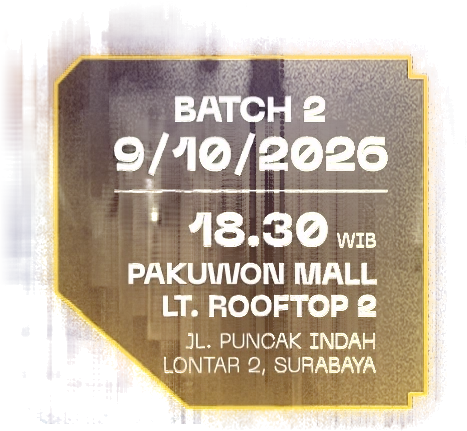
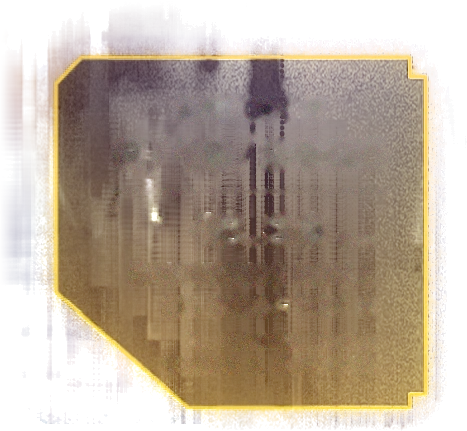
update

diff --git a/gyro.html b/gyro.html
@@ -65,15 +65,74 @@
             50% { opacity: var(--o); transform: scale(1); }
         }
 
-        #tilt {
-            position: fixed; left: 50%; bottom: calc(18px + env(safe-area-inset-bottom));
-            transform: translateX(-50%); z-index: 5;
-            font: 700 11px/1 ui-monospace, Menlo, monospace; letter-spacing: .15em; color: #fff;
-            background: rgba(25, 12, 70, .85); border: 2px solid #e9b24a; border-radius: 0;
-            padding: 10px 14px; box-shadow: 0 0 0 2px rgba(25,12,70,.85), 0 0 18px rgba(233,178,74,.45);
-            cursor: pointer;
+        /* tap-to-enter start screen; the tap is what lets iOS ask for motion permission */
+        #loader {
+            position: fixed; inset: 0; z-index: 50; width: 100%; margin: 0; padding: 0; border: 0;
+            display: flex; flex-direction: column; align-items: center; justify-content: center; gap: 16px;
+            background: #000; color: inherit; cursor: pointer; transition: opacity .5s;
+            -webkit-tap-highlight-color: transparent;
         }
-        #tilt[hidden] { display: none; }
+        #loader:disabled { cursor: default; }
+        #loader.gone { opacity: 0; pointer-events: none; }
+        #loader span { display: block; }
+        #loader-msg {
+            color: #eab308; font: 12px/16px ui-monospace, SFMono-Regular, Menlo, monospace; letter-spacing: .1em;
+            animation: pulse 2s cubic-bezier(.4, 0, .6, 1) infinite;
+        }
+        @keyframes pulse { 50% { opacity: .5; } }
+
+        /* Pixel-art treasure chest loader (same as index.html) */
+        .pixel-chest {
+            position: relative;
+            width: 64px;
+            height: 64px;
+            image-rendering: pixelated;
+            image-rendering: crisp-edges;
+        }
+        .pixel-chest-lid,
+        .pixel-chest-body {
+            position: absolute;
+            left: 0;
+            width: 4px;
+            height: 4px;
+            background: transparent;
+            box-shadow:
+                /* LID (top arc, gold/brown) */
+                8px 4px 0 #b8860b, 12px 4px 0 #b8860b, 16px 4px 0 #b8860b, 20px 4px 0 #b8860b, 24px 4px 0 #b8860b, 28px 4px 0 #b8860b, 32px 4px 0 #b8860b, 36px 4px 0 #b8860b, 40px 4px 0 #b8860b, 44px 4px 0 #b8860b, 48px 4px 0 #b8860b,
+                4px 8px 0 #8b6508, 8px 8px 0 #ffd700, 12px 8px 0 #ffd700, 16px 8px 0 #ffd700, 20px 8px 0 #ffd700, 24px 8px 0 #ffd700, 28px 8px 0 #ffd700, 32px 8px 0 #ffd700, 36px 8px 0 #ffd700, 40px 8px 0 #ffd700, 44px 8px 0 #ffd700, 48px 8px 0 #ffd700, 52px 8px 0 #8b6508;
+        }
+        .pixel-chest-body {
+            top: 28px;
+            box-shadow:
+                /* BODY (wood with gold band) */
+                4px 0 0 #5a3a1a, 8px 0 0 #8b5a2b, 12px 0 0 #8b5a2b, 16px 0 0 #8b5a2b, 20px 0 0 #8b5a2b, 24px 0 0 #8b5a2b, 28px 0 0 #8b5a2b, 32px 0 0 #8b5a2b, 36px 0 0 #8b5a2b, 40px 0 0 #8b5a2b, 44px 0 0 #8b5a2b, 48px 0 0 #8b5a2b, 52px 0 0 #5a3a1a,
+                4px 4px 0 #5a3a1a, 8px 4px 0 #ffd700, 12px 4px 0 #ffd700, 16px 4px 0 #ffd700, 20px 4px 0 #ffd700, 24px 4px 0 #ffd700, 28px 4px 0 #ffd700, 32px 4px 0 #ffd700, 36px 4px 0 #ffd700, 40px 4px 0 #ffd700, 44px 4px 0 #ffd700, 48px 4px 0 #ffd700, 52px 4px 0 #5a3a1a,
+                4px 8px 0 #5a3a1a, 8px 8px 0 #8b5a2b, 48px 8px 0 #8b5a2b, 52px 8px 0 #5a3a1a,
+                4px 12px 0 #5a3a1a, 8px 12px 0 #8b5a2b, 48px 12px 0 #8b5a2b, 52px 12px 0 #5a3a1a;
+        }
+        .pixel-chest-lid {
+            top: 8px;
+            animation: lidBounce 1s steps(2) infinite alternate;
+        }
+        @keyframes lidBounce {
+            0% { top: 8px; }
+            100% { top: 0px; }
+        }
+        .pixel-sparkle {
+            position: absolute;
+            width: 4px;
+            height: 4px;
+            background: #fffacd;
+            box-shadow: 0 0 4px #fffacd;
+            opacity: 0;
+        }
+        .pixel-sparkle-1 { top: 0; left: 50%; animation: sparkle 1.2s ease-in-out infinite; }
+        .pixel-sparkle-2 { top: 4px; left: 25%; animation: sparkle 1.2s ease-in-out infinite 0.4s; }
+        .pixel-sparkle-3 { top: 4px; left: 75%; animation: sparkle 1.2s ease-in-out infinite 0.8s; }
+        @keyframes sparkle {
+            0%, 100% { opacity: 0; transform: scale(0.5); }
+            50% { opacity: 1; transform: scale(1); }
+        }
     </style>
 </head>
 <body>
@@ -81,10 +140,15 @@
         <div class="fg" id="fg">
             <img class="bgimg" id="bg" src="gyro/bg.webp" alt="">
             <div class="bob" id="bob">
-                <img id="top" src="gyro/top.webp" style="left:237px;top:140px" alt="The game is on. Are you ready?">
-                <img id="b1" src="gyro/b1.webp" style="left:63px;top:909px" alt="Batch 1: 2/10/2026, 18.30 WIB, Pakuwon City Mall 3 Lt. P8, Jl. Kejawan Putih Mutiara 17, Surabaya">
-                <img id="b2" src="gyro/b2.webp" style="left:575px;top:921px" alt="Batch 2: 9/10/2026, 18.30 WIB, Pakuwon Mall Lt. Rooftop 2, Jl. Puncak Indah Lontar 2, Surabaya">
-                <img id="reg" src="gyro/reg.webp" style="left:319px;top:1320px" alt="Open registration: 16-27 September 2026 (via CG fun leaders and Treasure Hunt booth)">
+                <!-- each box = panel + its text on a separate, deeper layer -->
+                <img id="top" src="gyro/top.webp" style="left:237px;top:140px" alt="">
+                <img id="top-t" src="gyro/top-text.webp" style="left:319px;top:240px" alt="The game is on. Are you ready?">
+                <img id="b1" src="gyro/b1.webp" style="left:63px;top:909px" alt="">
+                <img id="b1-t" src="gyro/b1-text.webp" style="left:161px;top:988px" alt="Batch 1: 2/10/2026, 18.30 WIB, Pakuwon City Mall 3 Lt. P8, Jl. Kejawan Putih Mutiara 17, Surabaya">
+                <img id="b2" src="gyro/b2.webp" style="left:575px;top:921px" alt="">
+                <img id="b2-t" src="gyro/b2-text.webp" style="left:686px;top:1015px" alt="Batch 2: 9/10/2026, 18.30 WIB, Pakuwon Mall Lt. Rooftop 2, Jl. Puncak Indah Lontar 2, Surabaya">
+                <img id="reg" src="gyro/reg.webp" style="left:319px;top:1320px" alt="">
+                <img id="reg-t" src="gyro/reg-text.webp" style="left:400px;top:1372px" alt="Open registration: 16-27 September 2026 (via CG fun leaders and Treasure Hunt booth)">
                 <div class="L hg" id="hg">
                     <div class="face front">
                         <img src="gyro/heading.webp" alt="Treasure Hunt 5.0 — Into the game world">
@@ -110,7 +174,16 @@
             <div class="L stars" id="stars"></div>
         </div>
     </div>
-    <button id="tilt" hidden>TAP TO ENABLE TILT</button>
+    <button id="loader" disabled>
+        <span class="pixel-chest">
+            <span class="pixel-chest-lid"></span>
+            <span class="pixel-chest-body"></span>
+            <span class="pixel-sparkle pixel-sparkle-1"></span>
+            <span class="pixel-sparkle pixel-sparkle-2"></span>
+            <span class="pixel-sparkle pixel-sparkle-3"></span>
+        </span>
+        <span id="loader-msg">LOADING TREASURE…</span>
+    </button>
 
     <script>
     (function () {
@@ -130,9 +203,11 @@
         var TEXT_W = 543;
         var DIM = [[21,25],[27,30],[147,150],[153,156],[241,244],[247,250]];
 
+        var BOB_SCALE = .25; // calmer than the video: same timing, a quarter of the travel, around its average position (90)
         function bobAt(f) {
             var p = f / 3, i = Math.floor(p), t = p - i;
-            return BOB[i] + (BOB[(i + 1) % BOB.length] - BOB[i]) * t;
+            var raw = BOB[i] + (BOB[(i + 1) % BOB.length] - BOB[i]) * t;
+            return 90 + (raw - 90) * BOB_SCALE;
         }
         function spinAt(f) {
             var starts = [48, 187];
@@ -192,17 +267,9 @@
             tx = clamp((e.gamma - base.g) / 20);
             ty = clamp((e.beta - base.b) / 20);
         }
-        var tiltBtn = $('tilt');
-        if (window.DeviceOrientationEvent && typeof DeviceOrientationEvent.requestPermission === 'function') {
-            tiltBtn.hidden = false; // iOS needs a tap before it will share motion data
-            tiltBtn.onclick = function () {
-                DeviceOrientationEvent.requestPermission().then(function (state) {
-                    if (state === 'granted') window.addEventListener('deviceorientation', onOrient);
-                }).catch(function () {}).then(function () { tiltBtn.hidden = true; });
-            };
-        } else {
-            window.addEventListener('deviceorientation', onOrient);
-        }
+        // iOS only shares motion data after a permission prompt started by a tap (see enter()); Android starts right away
+        var needsPermission = window.DeviceOrientationEvent && typeof DeviceOrientationEvent.requestPermission === 'function';
+        if (!needsPermission) window.addEventListener('deviceorientation', onOrient);
         window.addEventListener('pointermove', function (e) {
             if (e.pointerType !== 'mouse') return;
             tx = clamp((e.clientX / innerWidth - .5) * 2);
@@ -211,7 +278,9 @@
 
         // ---- render ----
         var MAX = 36; // poster px of travel at depth 1
-        var layers = [[$('bg'), .2, 1.015], [$('top'), .55], [$('b1'), .7], [$('b2'), .7], [$('reg'), .8], [stars, 1.2]];
+        var TEXT_LIFT = .45; // box text floats this much deeper than its panel
+        var layers = [[$('bg'), .2, 1.015], [$('top'), .55], [$('b1'), .7], [$('b2'), .7], [$('reg'), .8],
+            [$('top-t'), .55 + TEXT_LIFT], [$('b1-t'), .7 + TEXT_LIFT], [$('b2-t'), .7 + TEXT_LIFT], [$('reg-t'), .8 + TEXT_LIFT], [stars, 1.2]];
         function render(f) {
             cx += (tx - cx) * .08; cy += (ty - cy) * .08;
             for (var i = 0; i < layers.length; i++) {
@@ -230,20 +299,33 @@
 
         var reduced = matchMedia('(prefers-reduced-motion: reduce)').matches;
         var imgs = [].slice.call(document.images);
-        var started = false;
-        function start() {
-            if (started) return;
-            started = true;
+        var loader = $('loader'), entered = false;
+        function onAssetsReady() {
+            if (!loader.disabled) return;
+            loader.disabled = false;
+            $('loader-msg').textContent = 'TAP TO ENTER';
+        }
+        function enter() {
+            if (entered) return;
+            entered = true;
+            // must run synchronously inside the tap, or iOS refuses to show the prompt
+            if (needsPermission) {
+                DeviceOrientationEvent.requestPermission().then(function (state) {
+                    if (state === 'granted') window.addEventListener('deviceorientation', onOrient);
+                }).catch(function () {});
+            }
+            loader.classList.add('gone');
             document.body.classList.add('ready');
             if (reduced) { render(45); return; }
-            var t0 = performance.now();
+            var t0 = performance.now(); // timeline starts at frame 0 so the typing begins as the poster appears
             (function loop(now) {
                 render(((now - t0) / 1000 * 30) % LOOP);
                 requestAnimationFrame(loop);
             })(t0);
         }
-        Promise.all(imgs.map(function (im) { return im.decode ? im.decode().catch(function () {}) : 0; })).then(start);
-        setTimeout(start, 4000); // never stay hidden if a decode stalls
+        loader.addEventListener('click', enter);
+        Promise.all(imgs.map(function (im) { return im.decode ? im.decode().catch(function () {}) : 0; })).then(onAssetsReady);
+        setTimeout(onAssetsReady, 4000); // never stay stuck on loading if a decode stalls
 
         window.__render = render; // used by the screenshot check
     })();

diff --git a/index.html b/index.html
@@ -68,8 +68,7 @@
         .pixel-chest-lid,
         .pixel-chest-body {
             position: absolute;
-            left: 50%;
-            transform: translateX(-50%);
+            left: 0;
             width: 4px;
             height: 4px;
             background: transparent;
